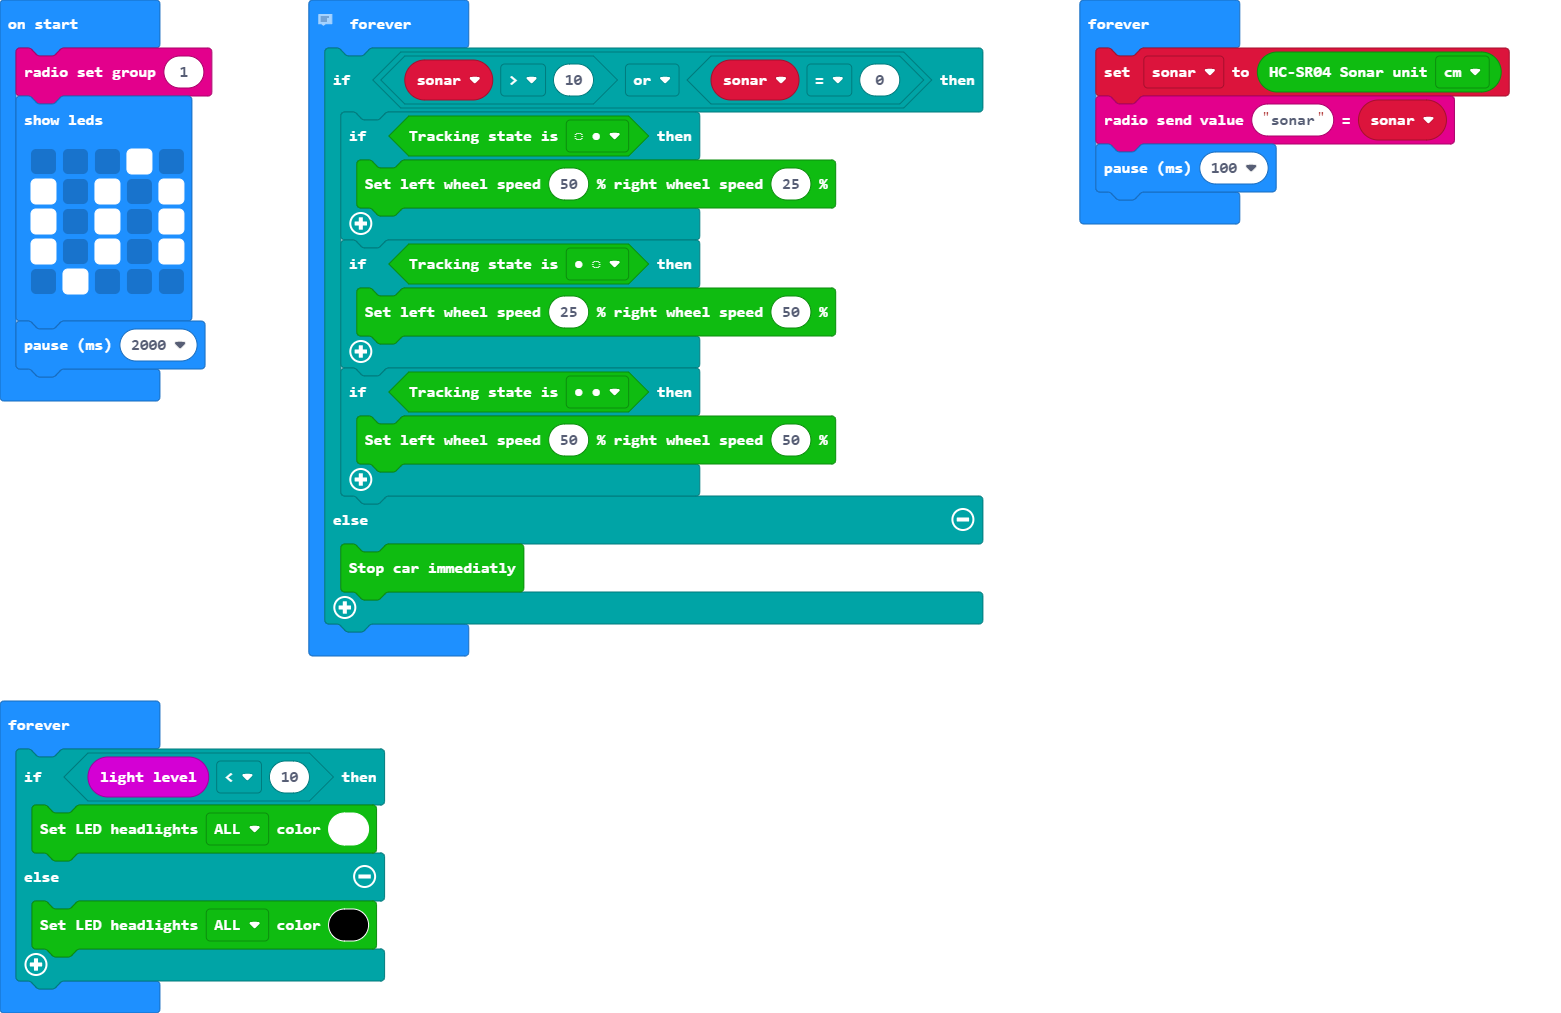
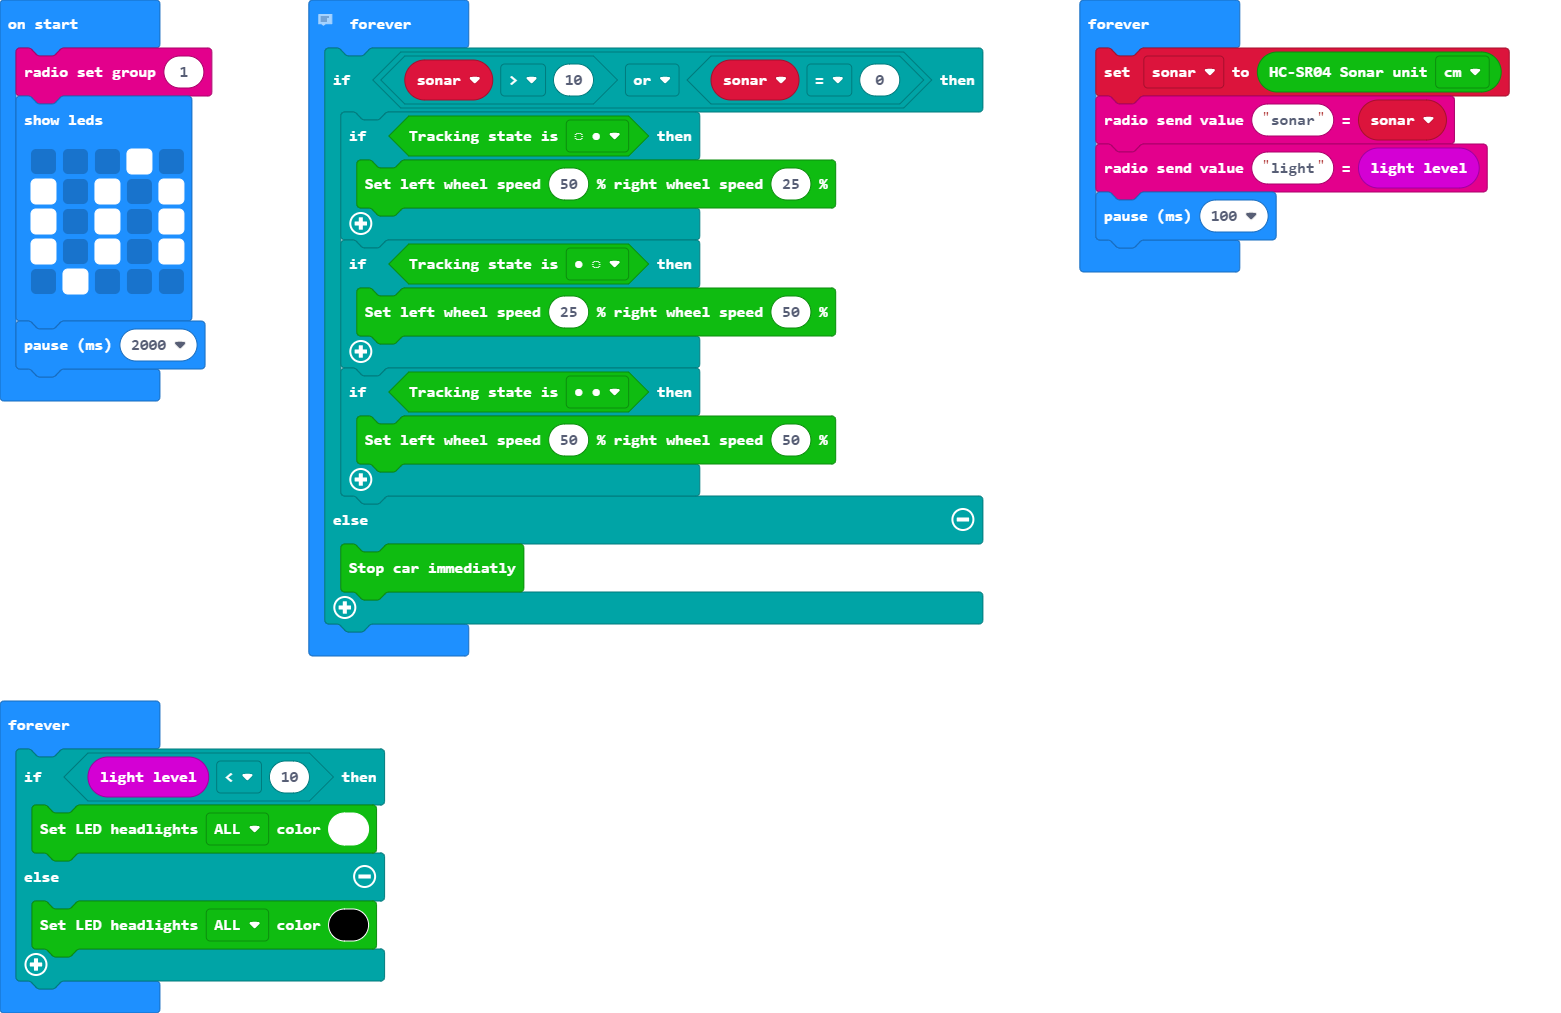
Update main.blocks, main.ts

Changed region(s): [[0.6765, 0.1224, 0.9532, 0.2754]]

diff --git a/main.ts b/main.ts
@@ -27,6 +27,7 @@ basic.forever(function () {
 basic.forever(function () {
     sonar = cuteBot.ultrasonic(cuteBot.SonarUnit.Centimeters)
     radio.sendValue("sonar", sonar)
+    radio.sendValue("light", input.lightLevel())
     basic.pause(100)
 })
 basic.forever(function () {
